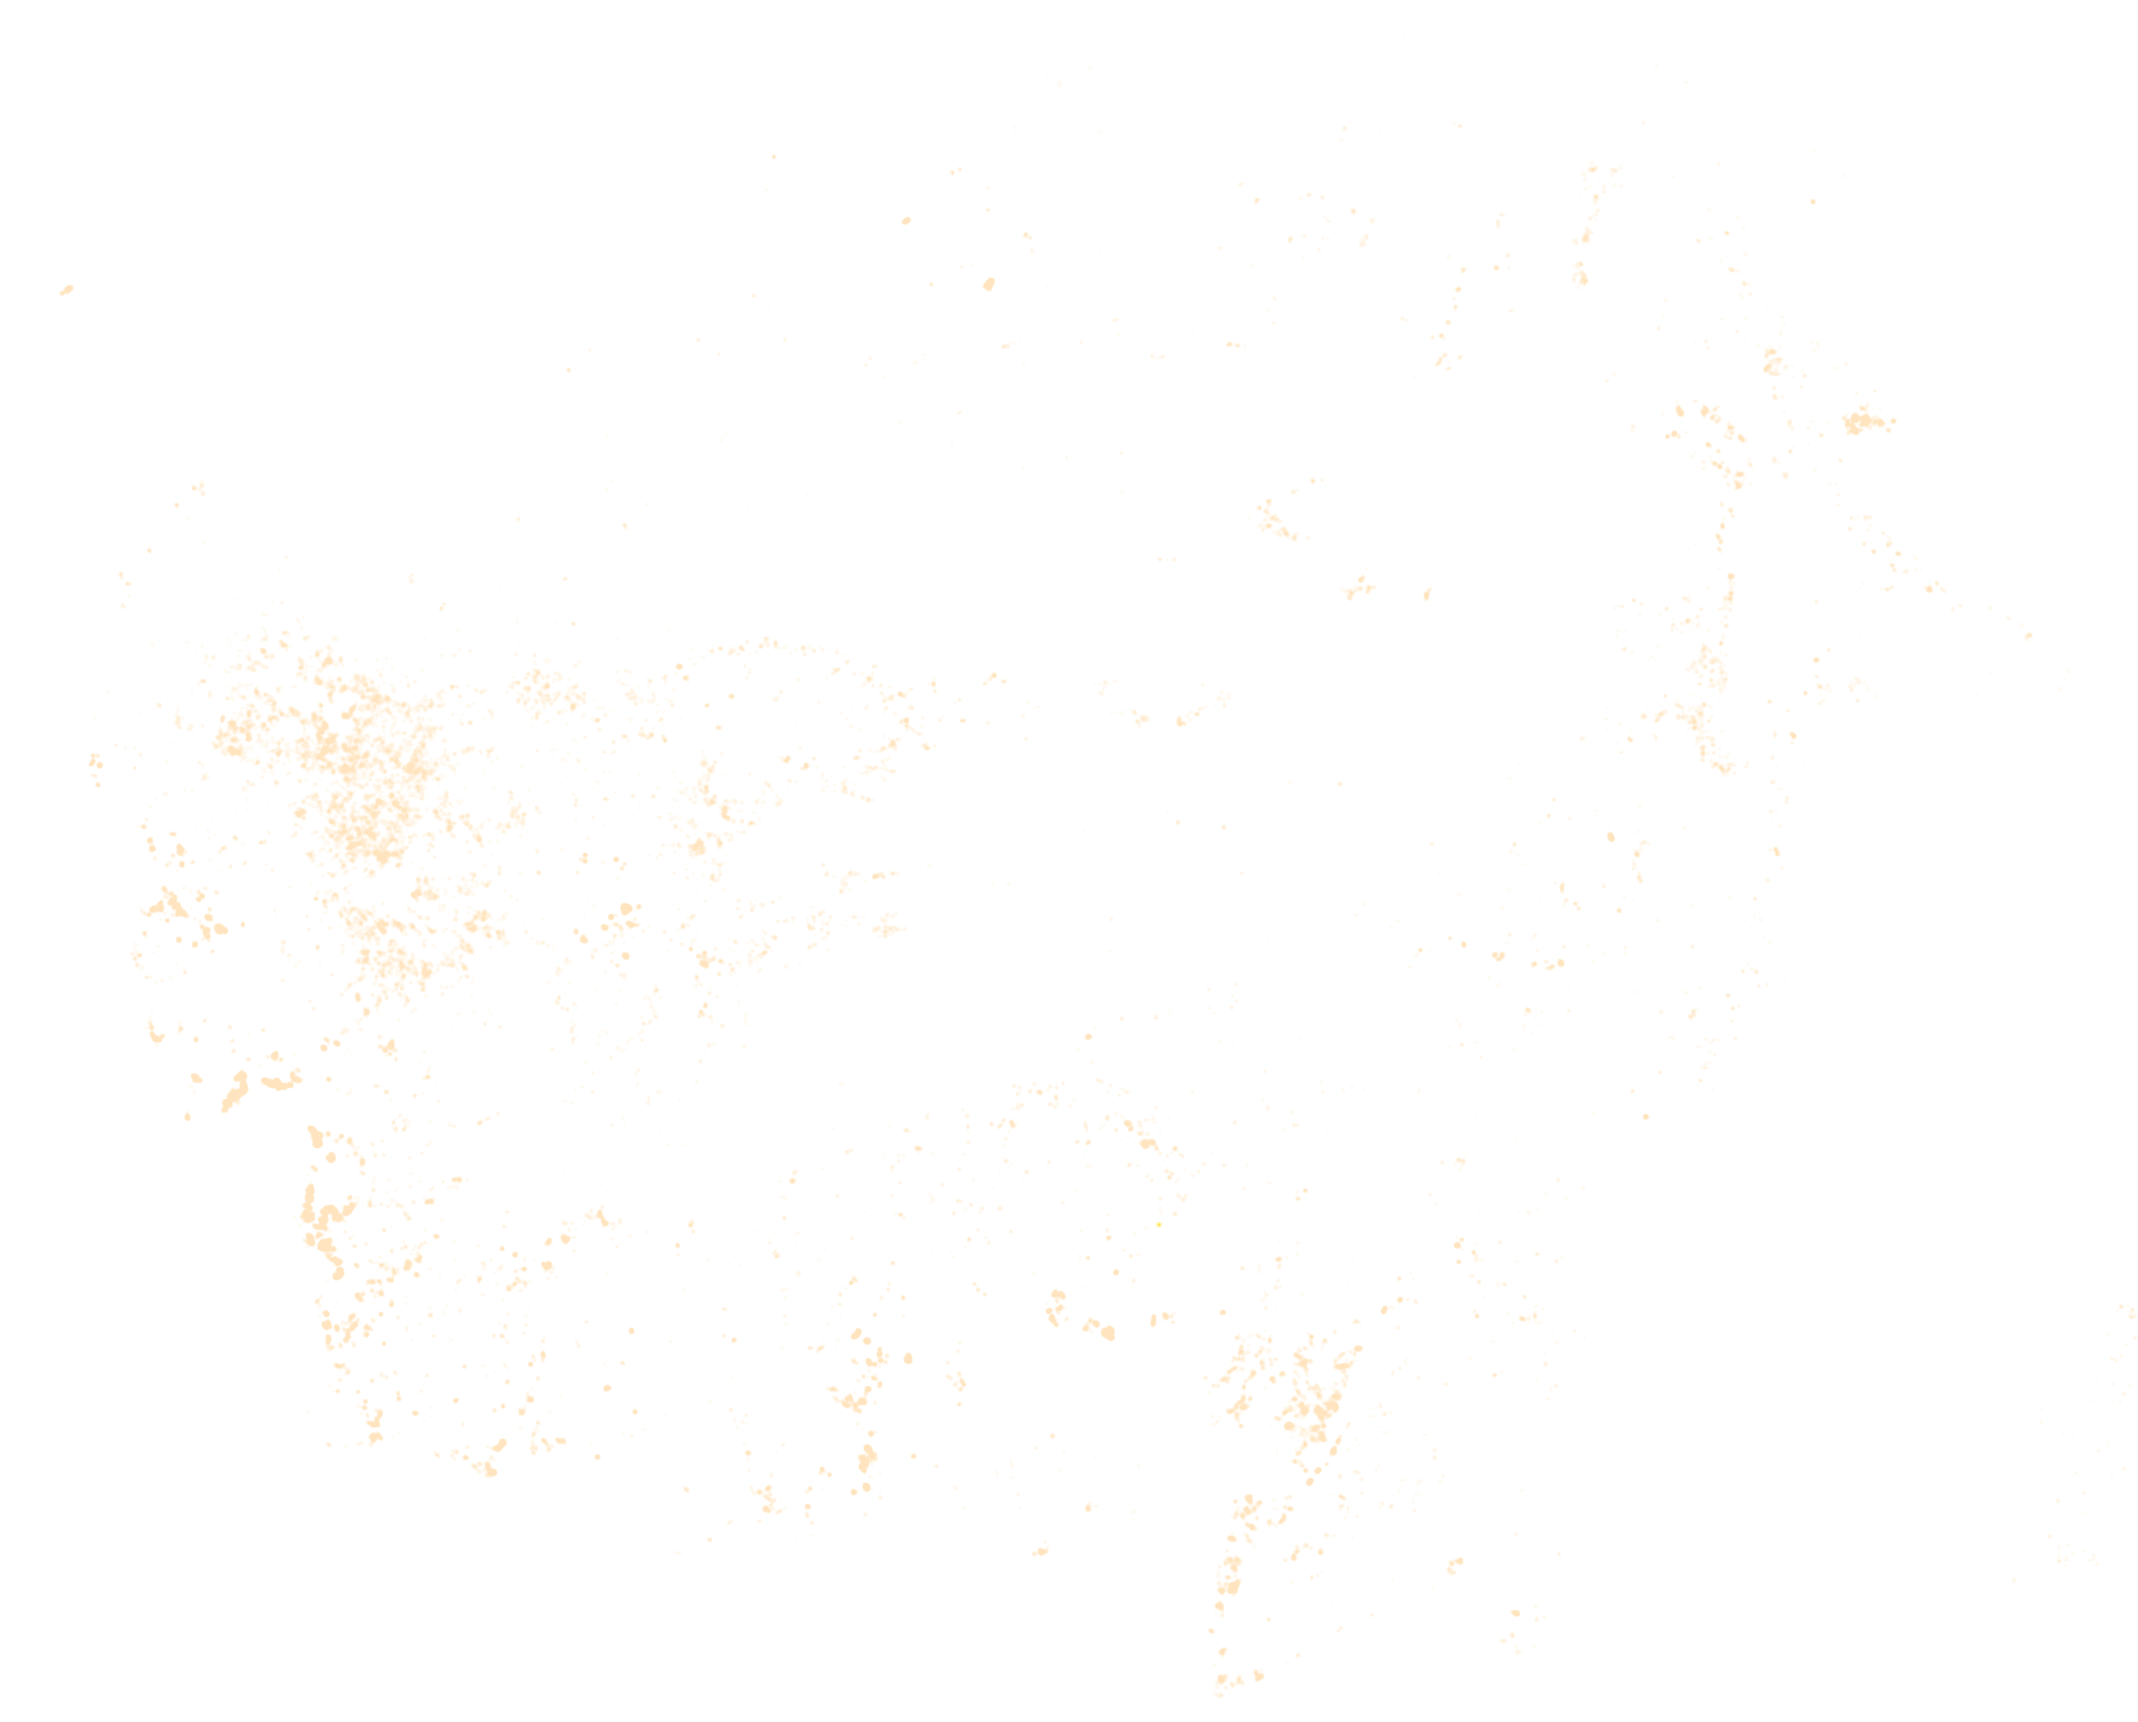
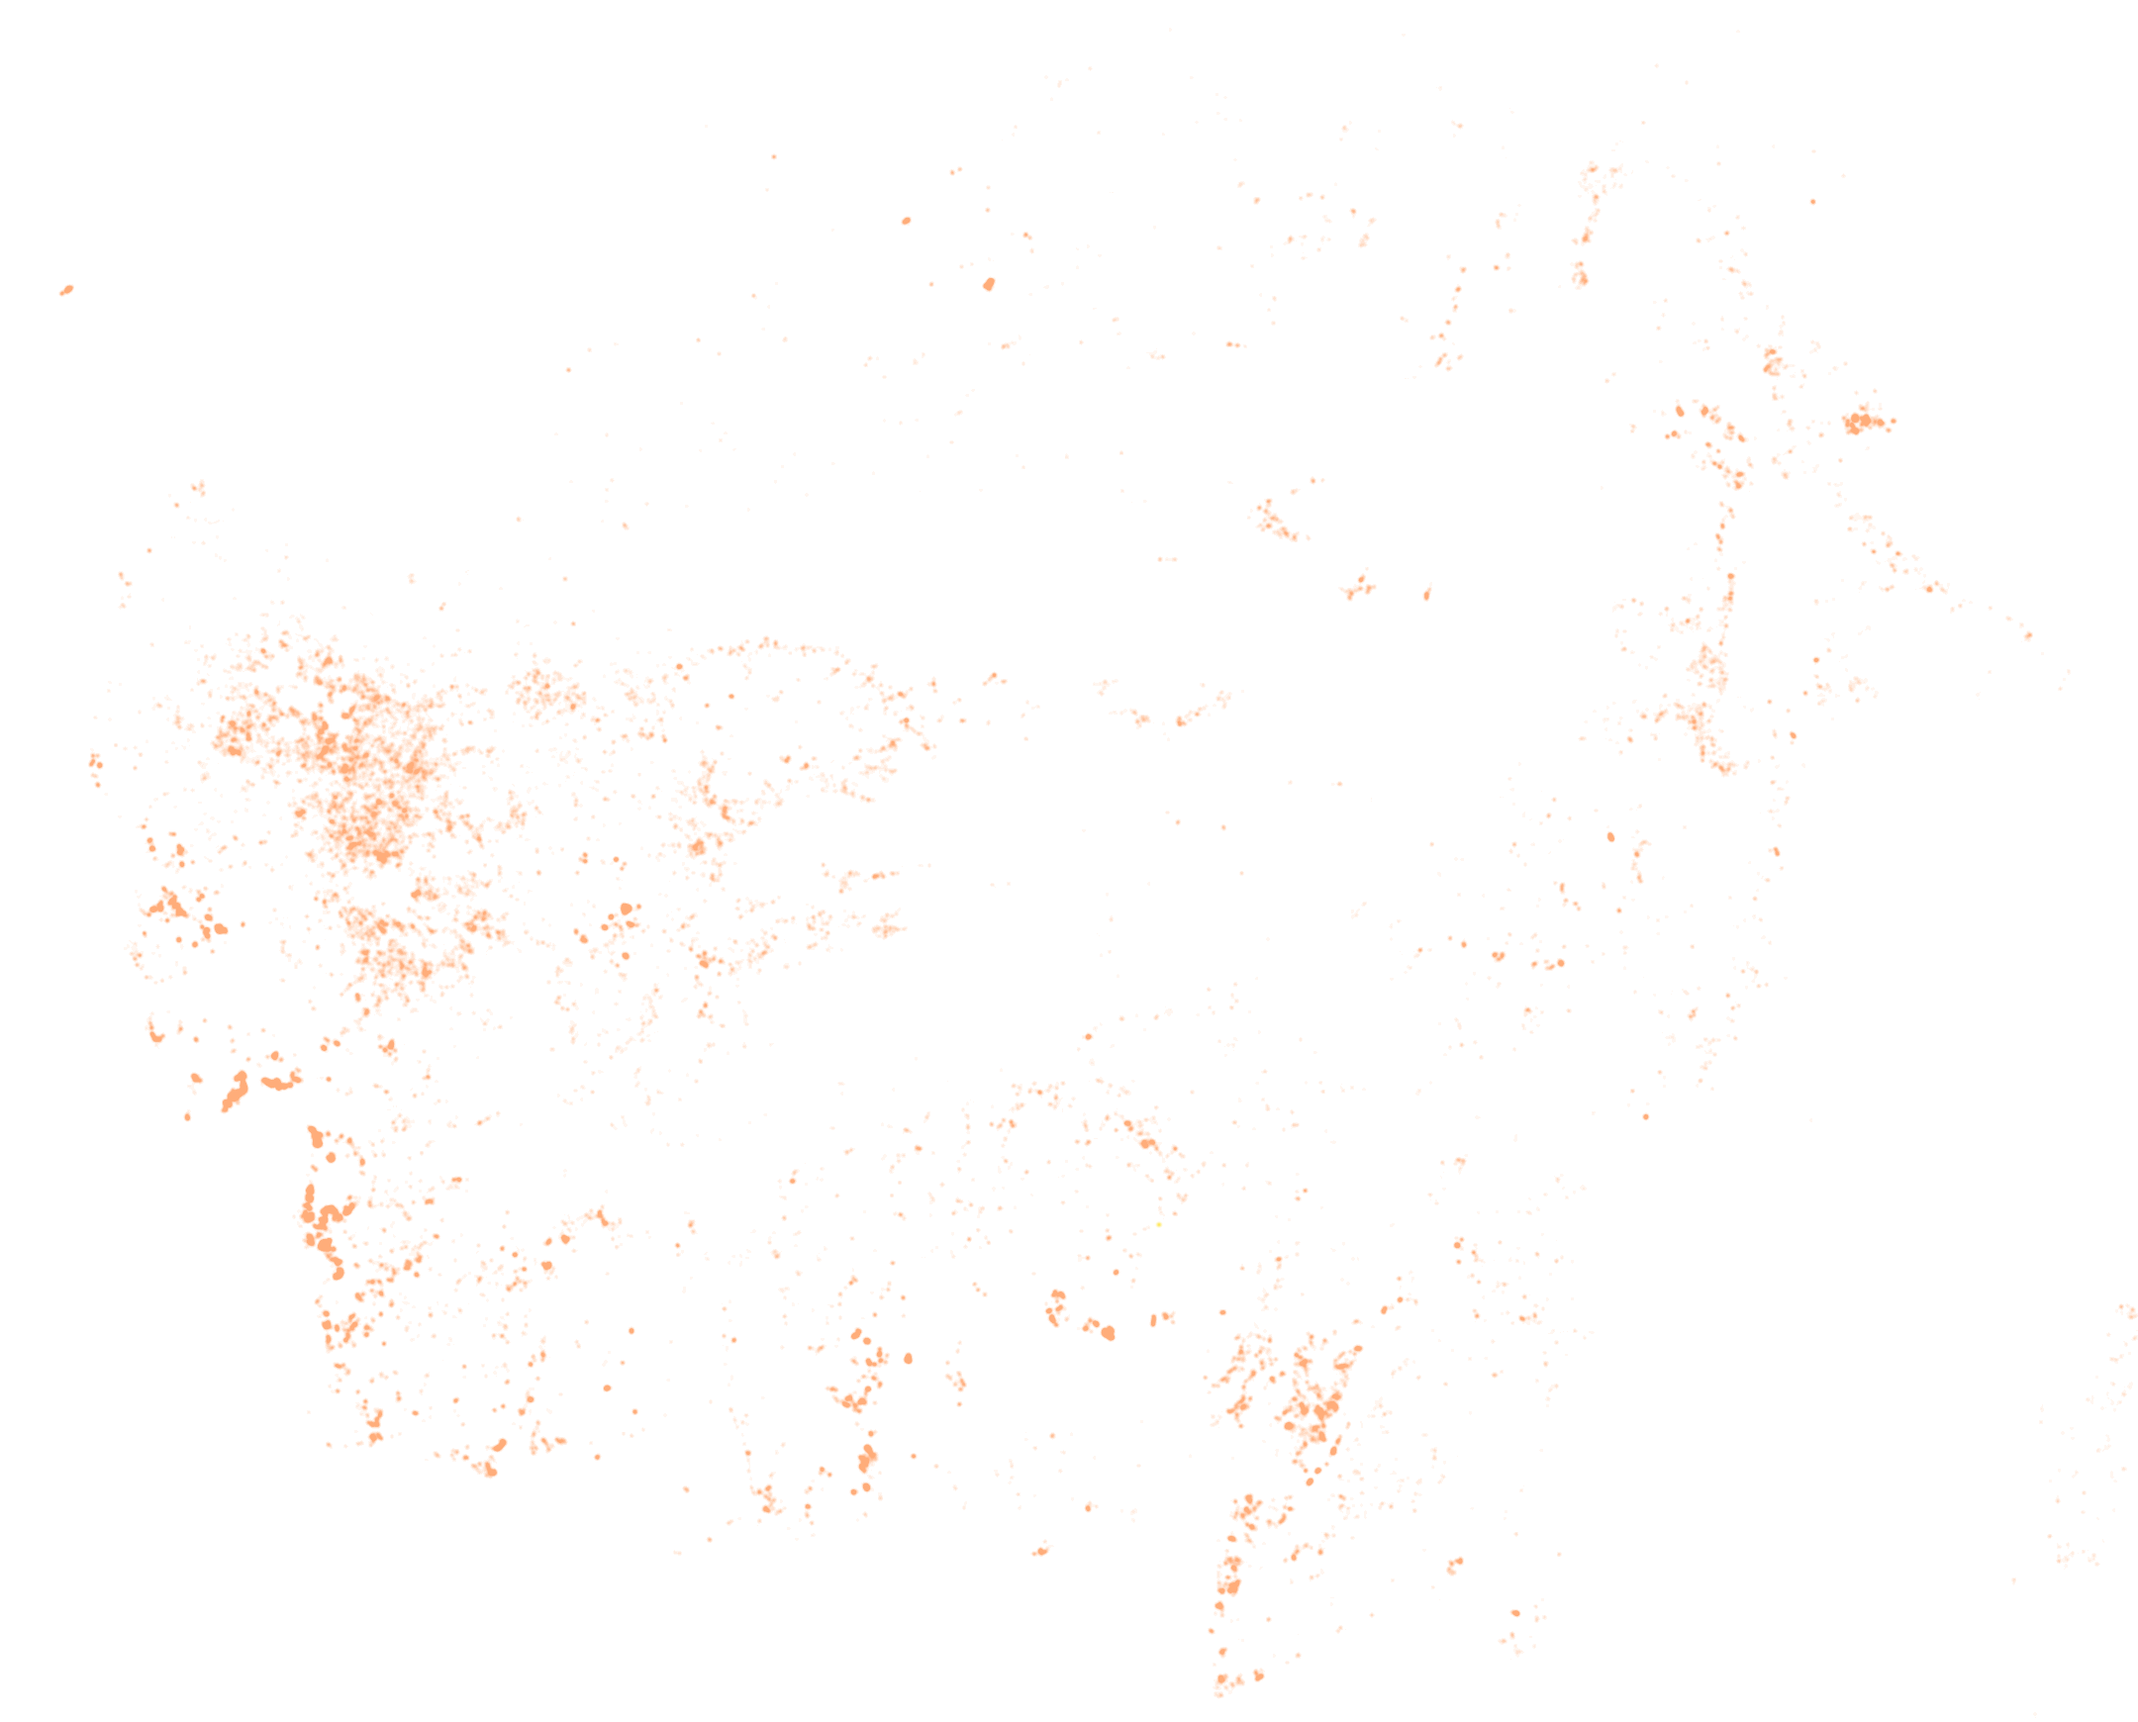
Fix review round 6: orange fire fields, image retry, lazy history, CO lands on September
Other-fire fields saturated orange (weaker tints mixed to khaki over green),
key matched. Every per-step image retries once with a cache-buster after an
error. The 27 MB click-history images load on first click, not at startup;
base map palettized (11.3 MB to 1.4 MB). Switching chapter 1 to fire gas
lands on Sep 9-20, where the plume has shape. Chart range +5% to -25%, HV
bold, HH thin, label off the 'now' line. Phone: CO chips without units,
chapter 4 scrolls to the big number. City line wraps whole entries.

diff --git a/app.js b/app.js
@@ -32,7 +32,9 @@
   L.imageOverlay("data/base_hv.png", bounds, { pane: "radar", className: "pixelated fadetop" }).addTo(map);
   L.imageOverlay("data/peat.png", bounds, { pane: "peat" }).addTo(map);  // smoothed: the peat map's 9 km cells read as blocks otherwise
   // One overlay per step for each time layer, all preloaded; only the current step is visible.
-  const perStep = (prefix, b, p, cls) => steps.map((s) => L.imageOverlay(`data/${prefix}_${pad(s.step)}.png`, b, { opacity: 0, pane: p, className: cls }).addTo(map));
+  // One retry with a cache-buster if an image fails (a busy CDN can answer 503 once); otherwise a step stays blank.
+  const retry = (o) => o.once("error", () => setTimeout(() => o.setUrl(`${o._url.split("?")[0]}?r=${Date.now()}`), 1500));
+  const perStep = (prefix, b, p, cls) => steps.map((s) => { const o = L.imageOverlay(`data/${prefix}_${pad(s.step)}.png`, b, { opacity: 0, pane: p, className: cls }); retry(o); return o.addTo(map); });
   const loss = perStep("loss", bounds, "loss", "pixelated");
   const peatburn = perStep("peatburn", bounds, "peatburn", "pixelated");
   const smoke = meta.smoke ? perStep("smoke", region, "smoke", "feather") : [];
@@ -55,7 +57,7 @@
   const level = (v) => v == null ? "none" : view.gas === "co"
     ? (v >= 200 ? "thick" : v >= 110 ? "hazy" : "clear")   // CO: June is about 80 ppbv
     : (v >= 2 ? "thick" : v >= 0.3 ? "hazy" : "clear");    // haze: matches the scale bar
-  const fmtReading = (v) => v == null ? "no reading" : view.gas === "co" ? `${v} ppb` : v.toFixed(1);
+  const fmtReading = (v) => v == null ? "no reading" : view.gas === "co" ? (narrow() ? `${v}` : `${v} ppb`) : v.toFixed(1);
   let current = 0;
   function render() {
     const show = (el, on, o = 1) => { el.style.opacity = on ? o : 0; };
@@ -105,7 +107,7 @@
       co2short: s.co2_mt ? `${fmtMt(s.co2_lo)} to ${fmtMt(s.co2_hi)}` : "",
       cars: s.cars_m >= 0.05 ? `like ${s.cars_m.toFixed(1)} million cars for a year` : "",
       cities: cityMarkers.filter((x) => reading(x.name, i) != null).sort((a, b) => reading(b.name, i) - reading(a.name, i)).slice(0, 3)
-        .map((x) => `${x.name} <b>${fmtReading(reading(x.name, i))}</b>`).join(" · ") || "no readings this step",
+        .map((x, j) => `<span class="cv">${j ? "· " : ""}${x.name} <b>${fmtReading(reading(x.name, i))}</b></span>`).join(" ") || "no readings this step",
     };
     document.querySelectorAll("[data-live]").forEach((el) => { el.innerHTML = live[el.dataset.live] ?? ""; });
     render();
@@ -136,7 +138,9 @@
   // --- Probe chart.
   let probeAt = null;
   const probe = { hv: [], hh: [], forest: null, loss: null, w: 0, h: 0, ready: false };
-  (async () => {
+  let probeStarted = false;
+  async function loadProbe() {  // 24 history images (27 MB): fetched on first use, not at startup
+    if (probeStarted) return; probeStarted = true;
     const load = (src) => new Promise((ok, fail) => { const im = new Image(); im.onload = () => ok(im); im.onerror = fail; im.src = src; });
     const read = (im) => {
       const c = document.createElement("canvas"); c.width = im.width; c.height = im.height;
@@ -151,8 +155,8 @@
       probe.forest = read(await load("data/probe_forest.png"));
       probe.loss = read(await load("data/probe_loss.png"));
       probe.ready = true;
-    } catch (e) { /* no probe layers: clicks do nothing */ }
-  })();
+    } catch (e) { probeStarted = false; /* a failed image: the next click tries again */ }
+  }
   function sampleAt(latlng) {
     const x = Math.floor((latlng.lng - bounds.getWest()) / (bounds.getEast() - bounds.getWest()) * probe.w);
     const y = Math.floor((bounds.getNorth() - latlng.lat) / (bounds.getNorth() - bounds.getSouth()) * probe.h);
@@ -169,7 +173,8 @@
     }
     return { hv: v(probe.hv), hh: v(probe.hh), flagged };
   }
-  function openProbe(latlng, title, series, quiet) {
+  async function openProbe(latlng, title, series, quiet) {
+    if (!series && !probe.ready) { $("probe").hidden = false; $("probeTitle").textContent = "Loading radar history…"; $("chart").innerHTML = ""; $("probeNote").textContent = ""; await loadProbe(); }
     const s = series || (probe.ready ? sampleAt(latlng) : null);
     if (s && s.none) {
       marker.remove(); probeAt = null;
@@ -192,7 +197,7 @@
     const el = $("probe");
     el.hidden = false;
     el.style.scrollMarginBottom = `${document.querySelector(".dock").offsetHeight + 12}px`;
-    requestAnimationFrame(() => el.scrollIntoView({ behavior: "smooth", block: "end" }));
+    requestAnimationFrame(() => el.scrollIntoView({ behavior: "smooth", block: "nearest" }));
   }
   function closeProbe() { $("probe").hidden = true; marker.remove(); probeAt = null; }
   map.on("click", (e) => {
@@ -213,7 +218,7 @@
     const rel = (pts) => pts.map(([d, v]) => [d, (v - pts[0][1]) / pts[0][1] * 100]);
     const hv = rel(probeAt.hv), hh = rel(probeAt.hh);
     const vals = [...hv, ...hh].map((p) => p[1]);
-    const lo = Math.min(-25, Math.floor(Math.min(...vals) / 5) * 5 - 5), hi = Math.max(25, Math.ceil(Math.max(...vals) / 5) * 5 + 5);
+    const lo = Math.min(-25, Math.floor(Math.min(...vals) / 5) * 5 - 5), hi = Math.max(5, Math.ceil(Math.max(...vals) / 5) * 5 + 5);
     const ys = (v) => t + (1 - (v - lo) / (hi - lo)) * (H - t - b);
     const path = (pts) => pts.map(([d, v], i) => (i ? "L" : "M") + `${xs(d)},${ys(v)}`).join("");
     const dots = (pts, cls) => pts.map(([d, v]) => `<circle class="${cls}" cx="${xs(d)}" cy="${ys(v)}" r="2"/>`).join("");
@@ -226,7 +231,7 @@
         `<text x="${l - 3}" y="${ys(v) + 3}" text-anchor="end">${v > 0 ? "+" : ""}${v}%</text>`).join("") +
       months.slice(1).map((m) => `<text x="${xs(m + "-01")}" y="${H - 6}" text-anchor="middle">${new Date(m + "-15T00:00:00Z").toLocaleDateString("en-US", { month: "short", timeZone: "UTC" })}</text>`).join("") +
       `<line class="now" x1="${xs(now)}" x2="${xs(now)}" y1="${t}" y2="${H - b}"/>` +
-      `<text x="${W - r}" y="${t + 8}" text-anchor="end">change since June</text>` +
+      `<text x="${l + 4}" y="${t + 8}">change since June</text>` +
       `<path class="hh" d="${path(hh)}"/><path class="hv" d="${path(hv)}"/>` + dots(hh, "hh") + dots(hv, "hv");
     // The verdict follows the loss map, so the chart never contradicts the red; the % is context.
     const upto = hv.filter(([d]) => d <= now);
@@ -244,7 +249,8 @@
     const [la, lo] = KETAPANG;
     flyTo(L.latLngBounds([[la - 0.25, lo - 0.3], [la + 0.25, lo + 0.3]]), { duration: 1.4 });  // centred in the visible map
     if (arrive) map.off("moveend", arrive);
-    arrive = () => { arrive = null; openProbe(L.latLng(KETAPANG), "Ketapang peat dome", meta.ketapang_series, chapter < EXPLORE && !narrow()); };
+    arrive = () => { arrive = null; openProbe(L.latLng(KETAPANG), "Ketapang peat dome", meta.ketapang_series, chapter < EXPLORE);
+    if (chapter < EXPLORE && narrow()) document.querySelector("#chWidget .big")?.scrollIntoView({ behavior: "smooth", block: "start" }); };
     map.once("moveend", arrive);
   };
 
@@ -358,7 +364,9 @@
     const b = e.target.closest("[data-gas]");
     if (!b) return;
     view.gas = b.dataset.gas;
-    setStep(current);
+    stop();
+    // October is near the top of the CO scale everywhere; mid-September shows the plume's shape.
+    setStep(view.gas === "co" && chapter === 0 ? 7 : current);
   });
 
   // Explore controls.

diff --git a/style.css b/style.css
@@ -94,8 +94,8 @@ h2 { margin: 0 0 10px; font-size: 30px; line-height: 1.1; letter-spacing: -0.015
 #chart { width: 100%; height: auto; margin-top: 6px; }
 #chart text { fill: var(--muted); font-size: 9px; }
 #chart .grid { stroke: var(--line); }
-#chart path.hv { stroke: var(--hv); fill: none; stroke-width: 2.5; }
-#chart path.hh { stroke: var(--hh); fill: none; stroke-width: 2.5; }
+#chart path.hv { stroke: var(--hv); fill: none; stroke-width: 3; }
+#chart path.hh { stroke: #7f95c4; fill: none; stroke-width: 1.5; }
 #chart circle.hv { fill: var(--hv); }
 #chart circle.hh { fill: var(--hh); }
 #chart .now { stroke: var(--loss); stroke-dasharray: 3 3; }
@@ -155,7 +155,7 @@ h2 { margin: 0 0 10px; font-size: 30px; line-height: 1.1; letter-spacing: -0.015
 .bars.two { grid-template-columns: 1fr 1fr; gap: 10px; }
 .bars.two .bar { margin-top: 0; }
 .key.fire { background: #ffe23c; }
-.key.firefaint { background: radial-gradient(circle, rgba(255,170,50,0.75), rgba(255,170,50,0.15)); }
+.key.firefaint { background: rgba(255, 110, 20, 0.7); }
 .leaflet-fires-pane.glow { filter: drop-shadow(0 0 1.5px #ffd23c) drop-shadow(0 0 3px rgba(255, 210, 60, 0.7)); }
 .fadetop { -webkit-mask-image: linear-gradient(to bottom, transparent 1%, #000 5%); mask-image: linear-gradient(to bottom, transparent 1%, #000 5%); }
 .headline { display: flex; align-items: baseline; gap: 10px; margin-bottom: 4px; }
@@ -196,3 +196,4 @@ input[type="checkbox"]:disabled + * , label:has(input:disabled) { opacity: 0.45;
   .cityline { display: none; }        /* the chips on the map carry the same numbers */
   .city-Banjarmasin { transform: translate(-50%, 40%); }
 }
+.cv { white-space: nowrap; }
